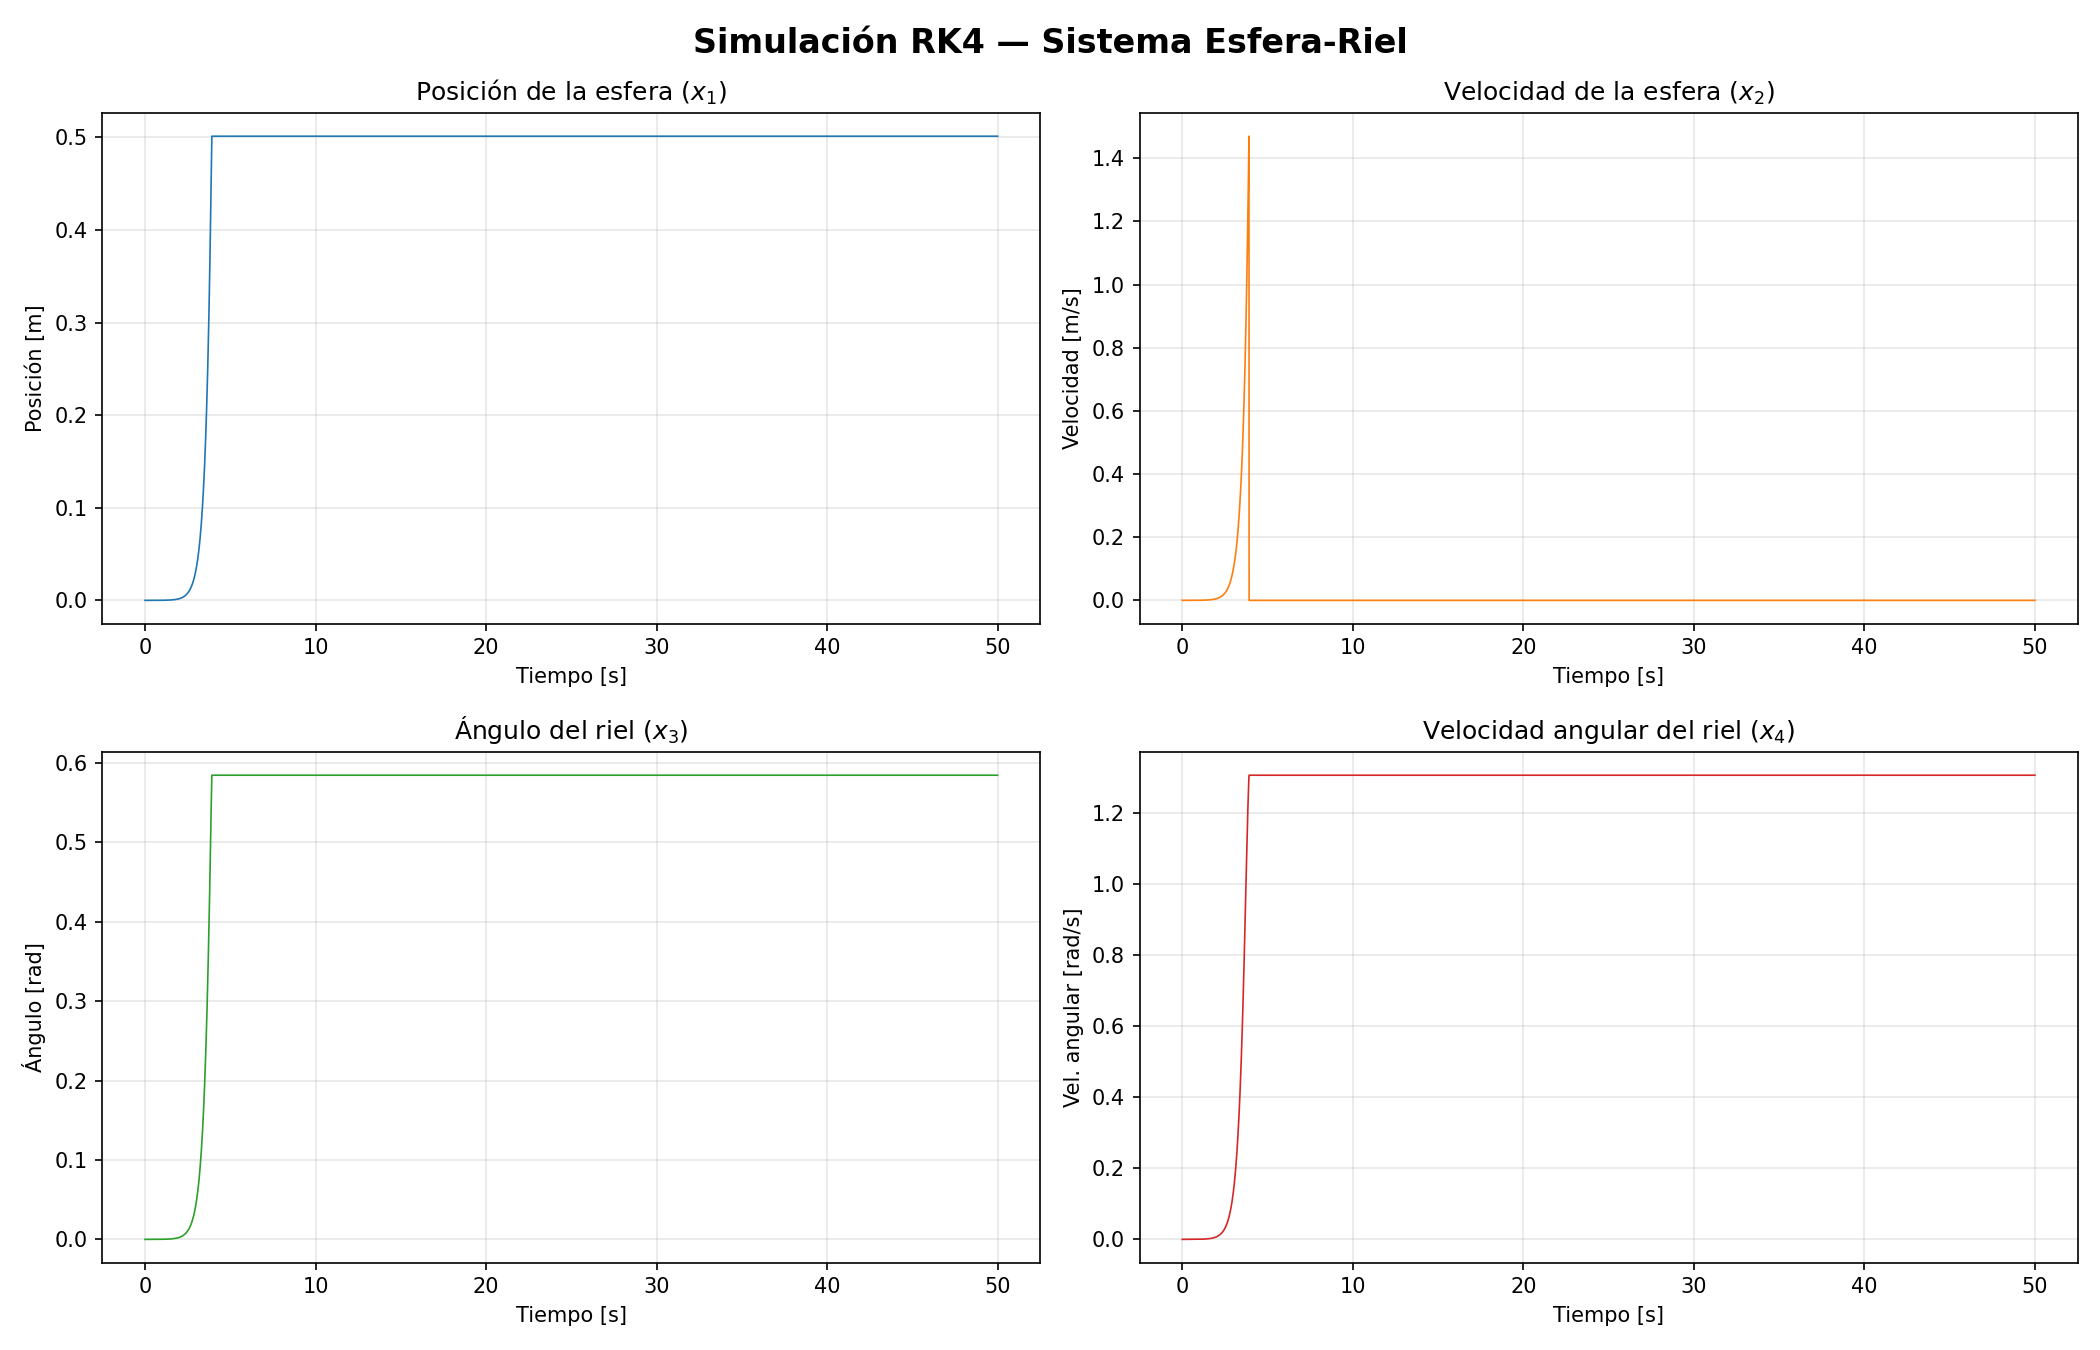
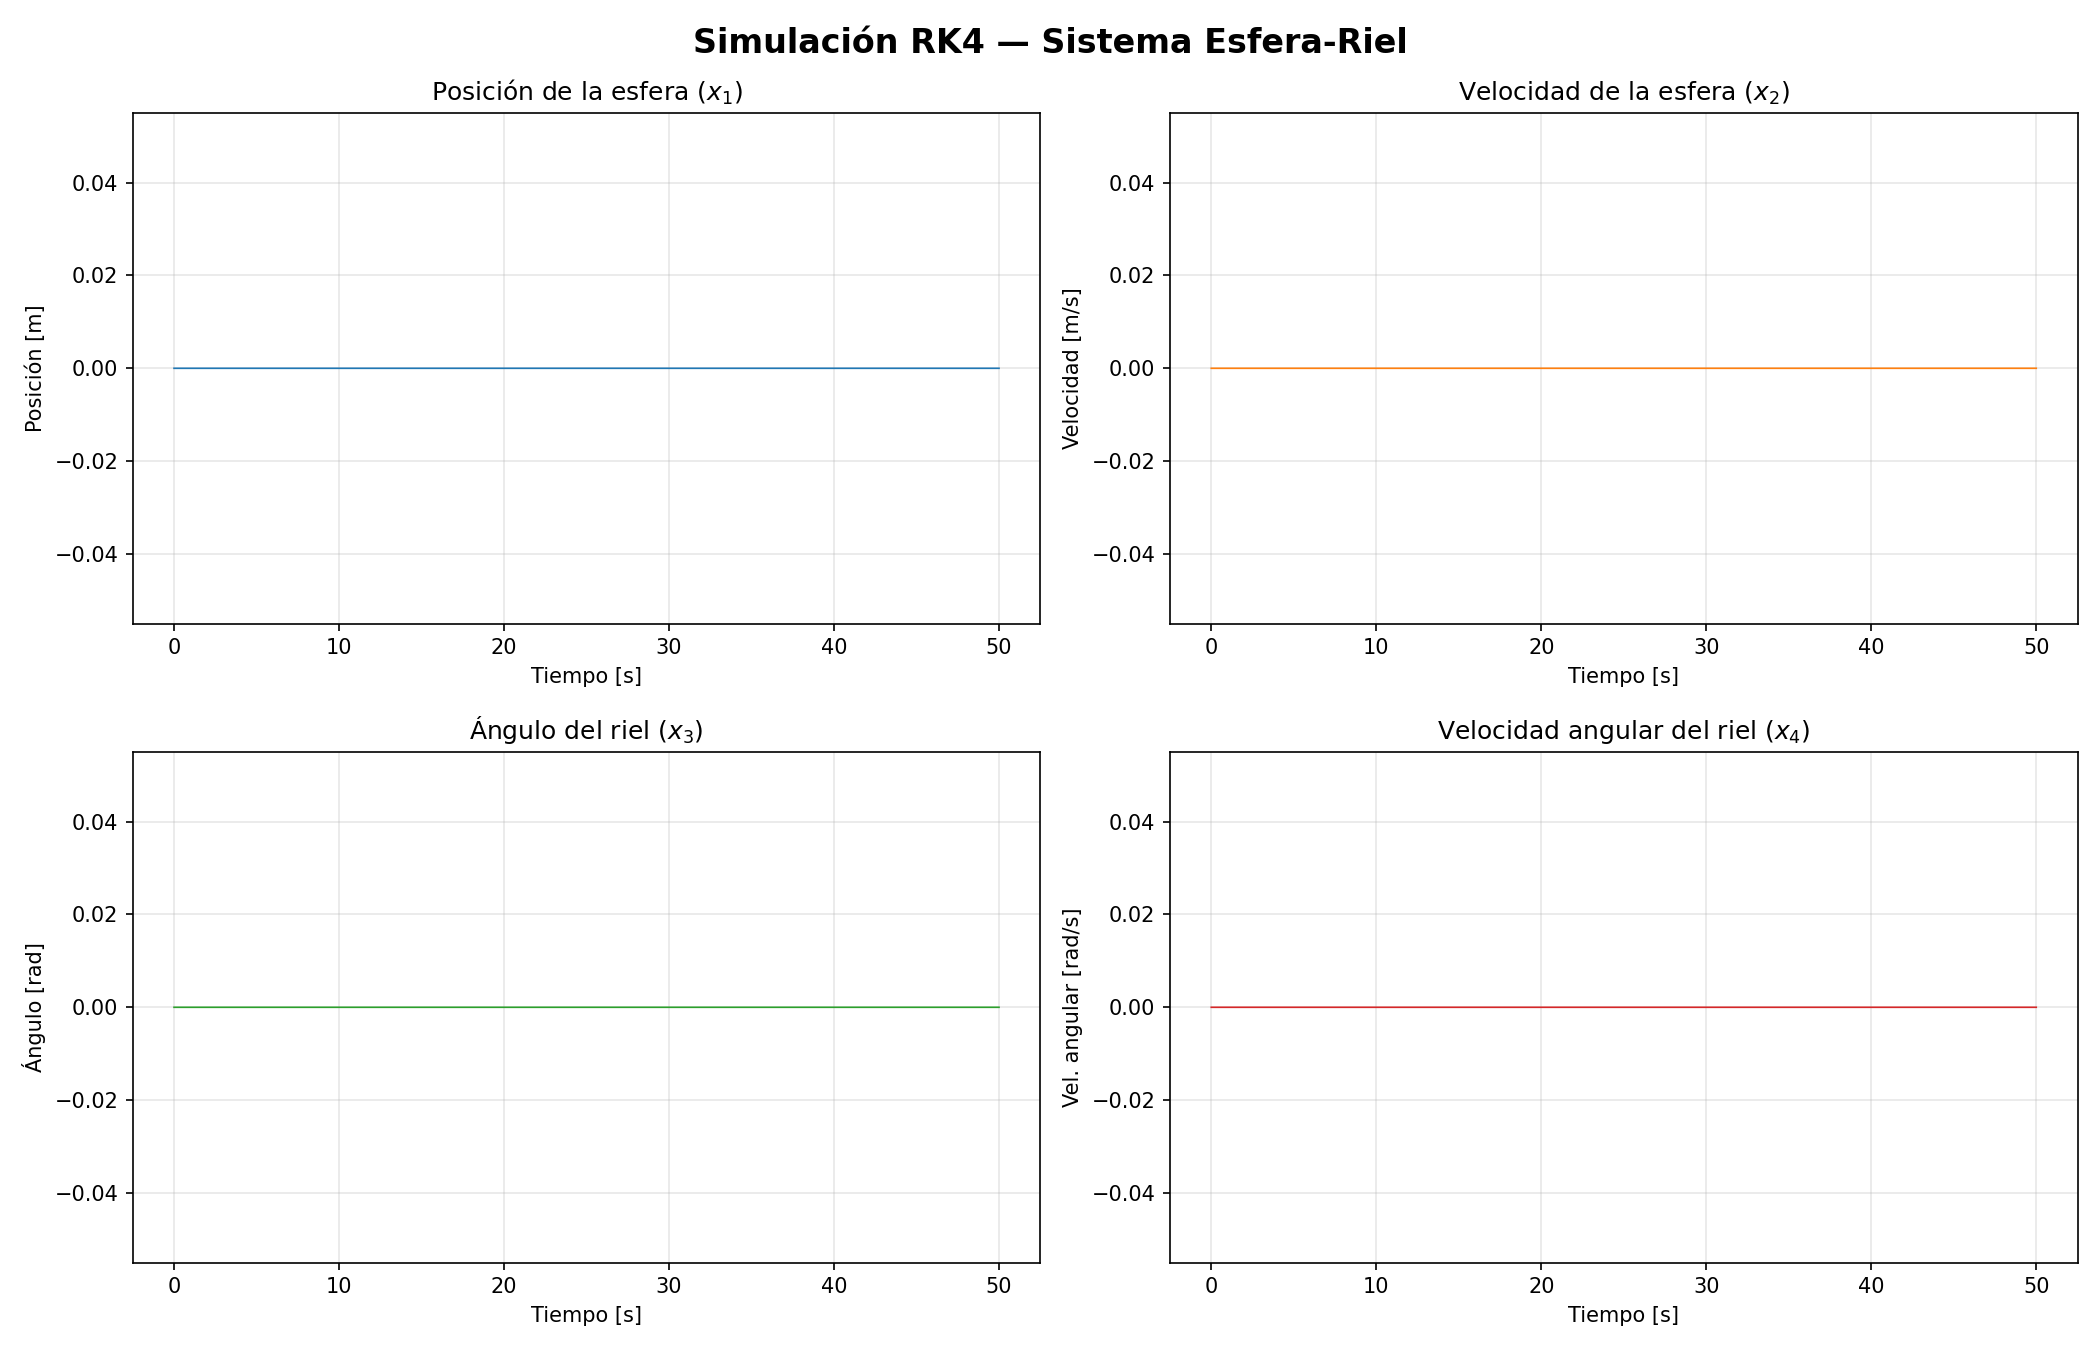
Codigo terminado y comentado con los casos de estudio

diff --git a/main.py b/main.py
@@ -30,16 +30,32 @@ b5 = m * r + (Ib / r)
 b6 = m * g
 
 # Funcion del input
+#Aqui se debera modificar la fuerza que se aplica como u(t)
 def u(t):
-    #return 0.000
-    #return 0.0001 # 0.0001 Para notar como la fuerza induce a que la esfera se mueva debido a la inclinacion
-    return m*g
+    #Caso 1.1
+    return 0.0
+    #Caso 1.2
+    #return m*g
+
+    #Caso 2
+    #return 0.0005
+
+    #Caso 3
+    #return 1.63
 
 #Datos del problema
 h = 0.001
 t0 = 0
 tn = 50
-x0 = np.array([-0.49, 0, 0, 0]) # Esfera desplazada 10 cm del centro
+#Caso 1.1 y Caso 2:
+x0 = np.array([0, 0, 0, 0]) # Esfera sin desplazar del centro [Posicion en x]
+
+#Caso 1.2:
+#x0 = np.array([-0.49, 0, 0, 0]) # Esfera desplazada 49[cm] a la izquierda [Posicion en x]
+
+#Caso 3:
+#x0 = np.array([-0.30, 0, 0, 0]) # Esfera desplazada 30[cm] a la izquierda [Posicion en x]
+
 n = int(np.round((tn-t0)/h,0))
 
 # 1. Línea del tiempo (eje X) — n+1 puntos desde t0 hasta tn
@@ -108,7 +124,7 @@ print(f"Estado final (t={tn}):  x1={x_valores[-1,0]:.6f}, x2={x_valores[-1,1]:.6
 
 #VISUALIZACION FISICA DEL SISTEMA ESFERA RIEL 
 def visual_sistema():
-    t_fisico = 3.0 #Tiempo a mostrar
+    t_fisico = 5.0 #Tiempo a mostrar
     idx_fin = int(t_fisico / h)
     paso_fisico = 25
     t_fis = t_valores[:idx_fin:paso_fisico]